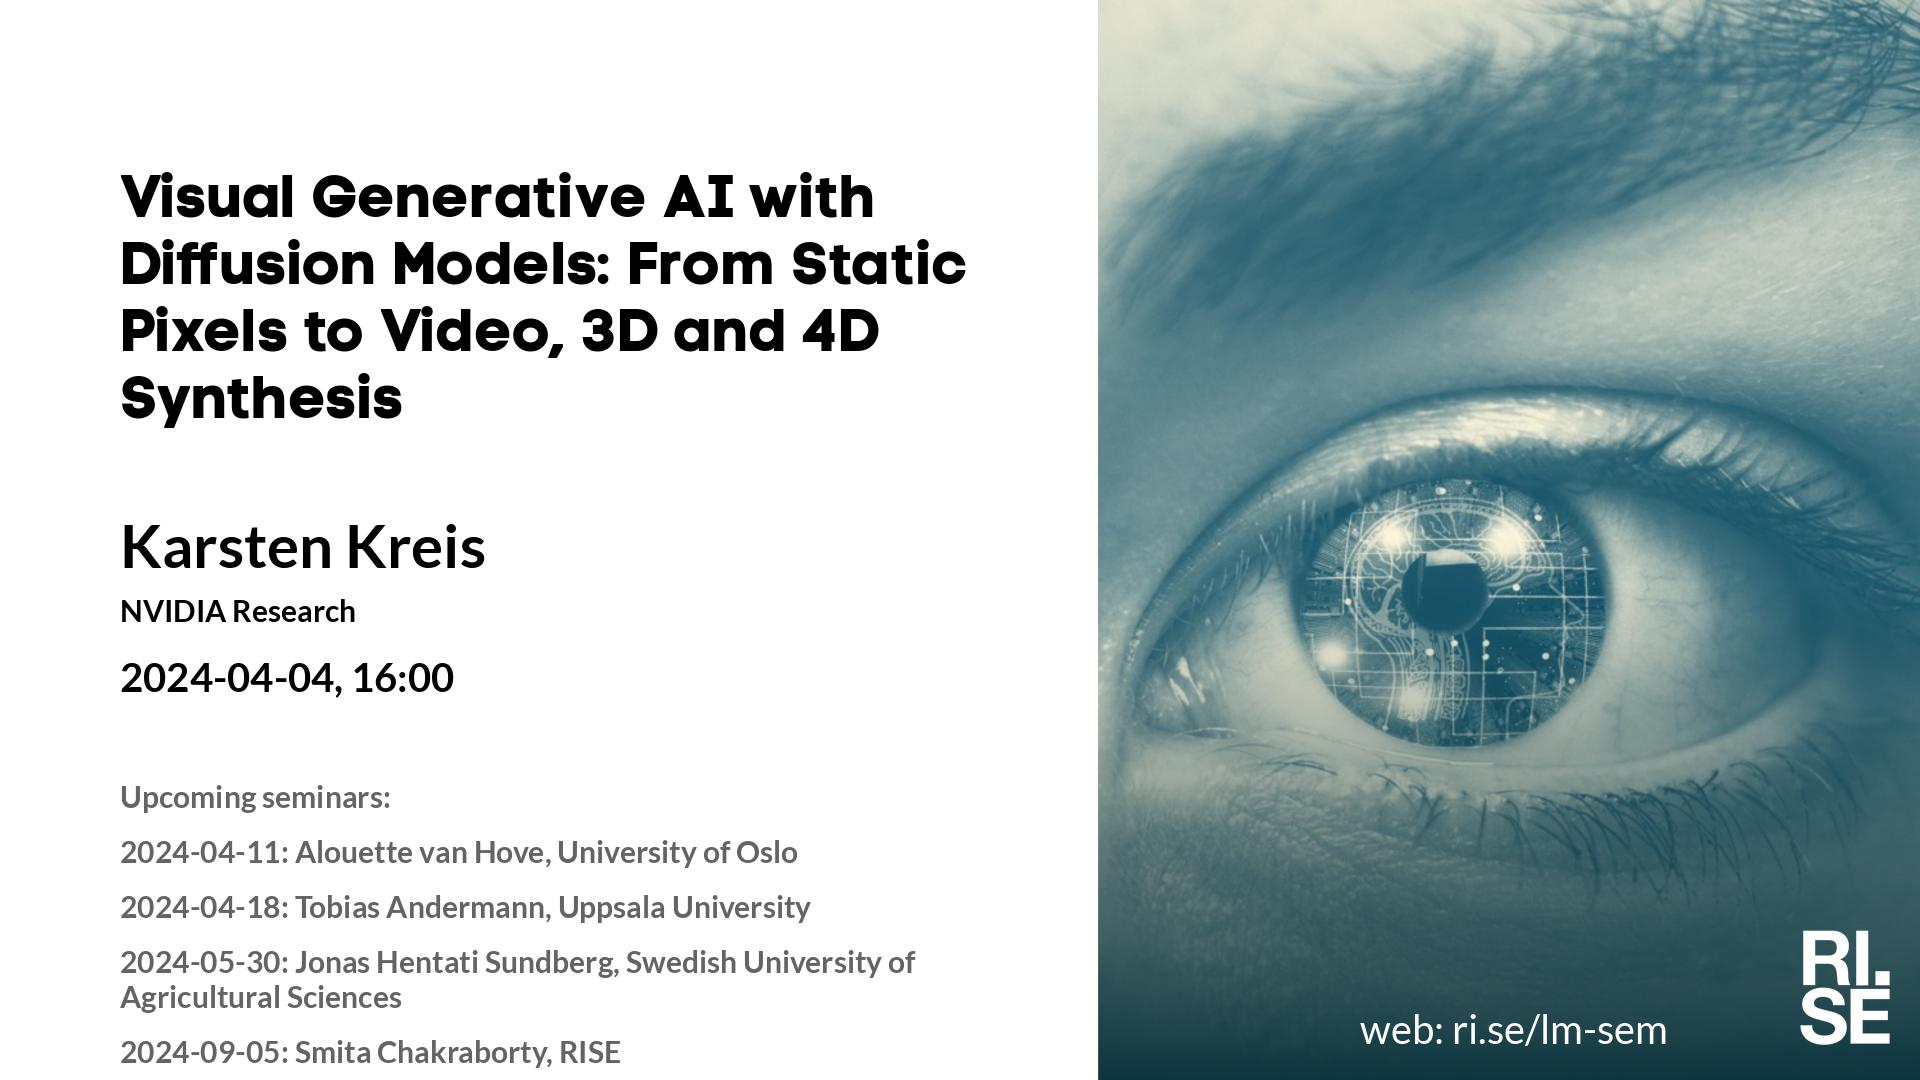
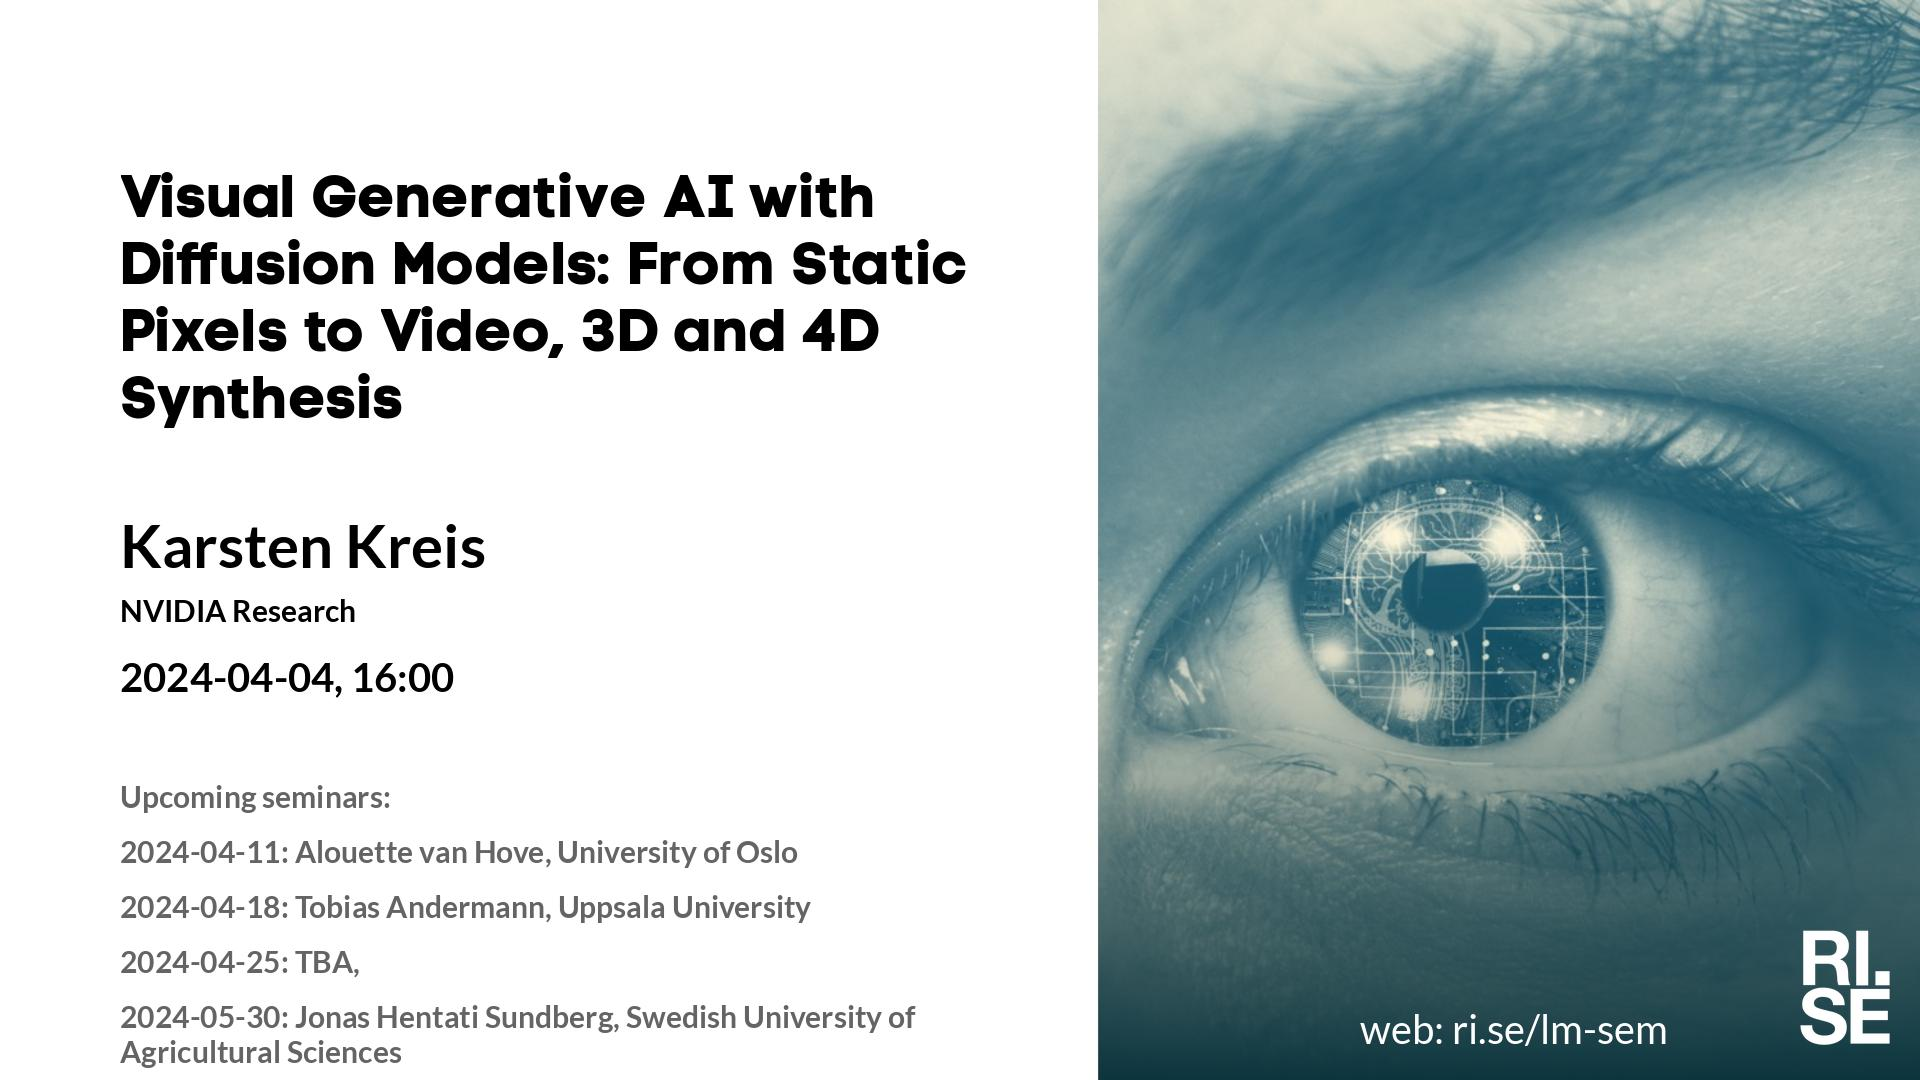
Updated plan on web site.

Changed region(s): [[0.0625, 0.8861, 0.4688, 1.0]]

diff --git a/lm/index.md b/lm/index.md
@@ -12,7 +12,7 @@ table {border-collapse: collapse;}
 |  2024-04-04  |  [Karsten Kreis, NVIDIA Research](2024-04-04.md)  |  [photo](photo-karsten-kreis.jpg)  |  [social media ](social-media-karsten-kreis.jpg)  |  [meeting backdrop ](meeting-backdrop-karsten-kreis.jpg)  |  [youtube thumbnail ](youtube-thumbnail-karsten-kreis.jpg)  |  STABP  |
 |  2024-04-11  |  [Alouette van Hove, University of Oslo](2024-04-11.md)  |  [photo](photo-alouette-van-hove.jpg)  |  [social media ](social-media-alouette-van-hove.jpg)  |  [meeting backdrop ](meeting-backdrop-alouette-van-hove.jpg)  |  [youtube thumbnail ](youtube-thumbnail-alouette-van-hove.jpg)  |  STABP  |
 |  2024-04-18  |  [Tobias Andermann, Uppsala University](2024-04-18.md)  |  [photo](photo-tobias-andermann.png)  |  [social media ](social-media-tobias-andermann.jpg)  |  [meeting backdrop ](meeting-backdrop-tobias-andermann.jpg)  |  [youtube thumbnail ](youtube-thumbnail-tobias-andermann.jpg)  |  STABP  |
-| <span style="color:grey"> 2024-04-25 </span> | <span style="color:grey"> Edward V. ? </span> | <span style="color:grey">  </span> | <span style="color:grey">  </span> | <span style="color:grey">  </span> | <span style="color:grey">  </span> | <span style="color:grey"> S~~TABP~~ </span> |
+|  2024-04-25  |  [TBA](2024-04-25.md)  |    |  [social media ](social-media-tba.jpg)  |  [meeting backdrop ](meeting-backdrop-tba.jpg)  |  [youtube thumbnail ](youtube-thumbnail-tba.jpg)  |  S~~TABP~~  |
 | <span style="color:red"> 2024-05-02 </span> | <span style="color:red"> ICLR </span> | <span style="color:red">  </span> | <span style="color:red">  </span> | <span style="color:red">  </span> | <span style="color:red">  </span> | <span style="color:red"> CANCELLED </span> |
 | <span style="color:red"> 2024-05-09 </span> | <span style="color:red"> ICLR </span> | <span style="color:red">  </span> | <span style="color:red">  </span> | <span style="color:red">  </span> | <span style="color:red">  </span> | <span style="color:red"> CANCELLED </span> |
 | <span style="color:purple"> 2024-05-16 </span> | <span style="color:purple"> *Up for grabs!!!* </span> | <span style="color:purple">  </span> | <span style="color:purple">  </span> | <span style="color:purple">  </span> | <span style="color:purple">  </span> | <span style="color:purple"> ~~STABP~~ </span> |

diff --git a/lm/2024-04-25.md b/lm/2024-04-25.md
@@ -1,0 +1,30 @@
+---
+layout: default
+metatags: "<meta name=\"robots\" content=\"noindex,nofollow\" />"
+---
+Welcome to this week's Learning Machines seminar.
+
+**Title:** N/A
+
+**Speaker:** TBA, 
+
+**Abstract:** N/A
+
+**About the speaker:** N/A
+
+**Location:** This is an online seminar. Connect using Zoom.
+
+**Date:** 2024-04-25 15:00
+
+**Zoom link:** [https://rise.zoom.us/j/208117140](https://rise.zoom.us/j/208117140)
+
+**Upcoming seminars:**
+
+* 2024-05-30: Jonas Hentati Sundberg, Swedish University of Agricultural Sciences
+* 2024-09-05: Smita Chakraborty, RISE
+* All seminars are 15:00 CET.
+
+More information and coming seminars: [https://ri.se/lm-sem](https://ri.se/lm-sem)
+
+-- The Learning Machines Team
+

diff --git a/lm/2024-04-04.md b/lm/2024-04-04.md
@@ -22,8 +22,8 @@ Welcome to this week's Learning Machines seminar.
 
 * 2024-04-11: Alouette van Hove, University of Oslo
 * 2024-04-18: Tobias Andermann, Uppsala University
+* 2024-04-25: TBA, 
 * 2024-05-30: Jonas Hentati Sundberg, Swedish University of Agricultural Sciences
-* 2024-09-05: Smita Chakraborty, RISE
 * All seminars are 15:00 CET.
 
 More information and coming seminars: [https://ri.se/lm-sem](https://ri.se/lm-sem)

diff --git a/lm/2024-04-11.md b/lm/2024-04-11.md
@@ -23,6 +23,7 @@ One aspect of our framework’s development is finding the optimal sampling path
 **Upcoming seminars:**
 
 * 2024-04-18: Tobias Andermann, Uppsala University
+* 2024-04-25: TBA, 
 * 2024-05-30: Jonas Hentati Sundberg, Swedish University of Agricultural Sciences
 * 2024-09-05: Smita Chakraborty, RISE
 * All seminars are 15:00 CET.

diff --git a/lm/2024-04-18.md b/lm/2024-04-18.md
@@ -20,6 +20,7 @@ Welcome to this week's Learning Machines seminar.
 
 **Upcoming seminars:**
 
+* 2024-04-25: TBA, 
 * 2024-05-30: Jonas Hentati Sundberg, Swedish University of Agricultural Sciences
 * 2024-09-05: Smita Chakraborty, RISE
 * All seminars are 15:00 CET.
